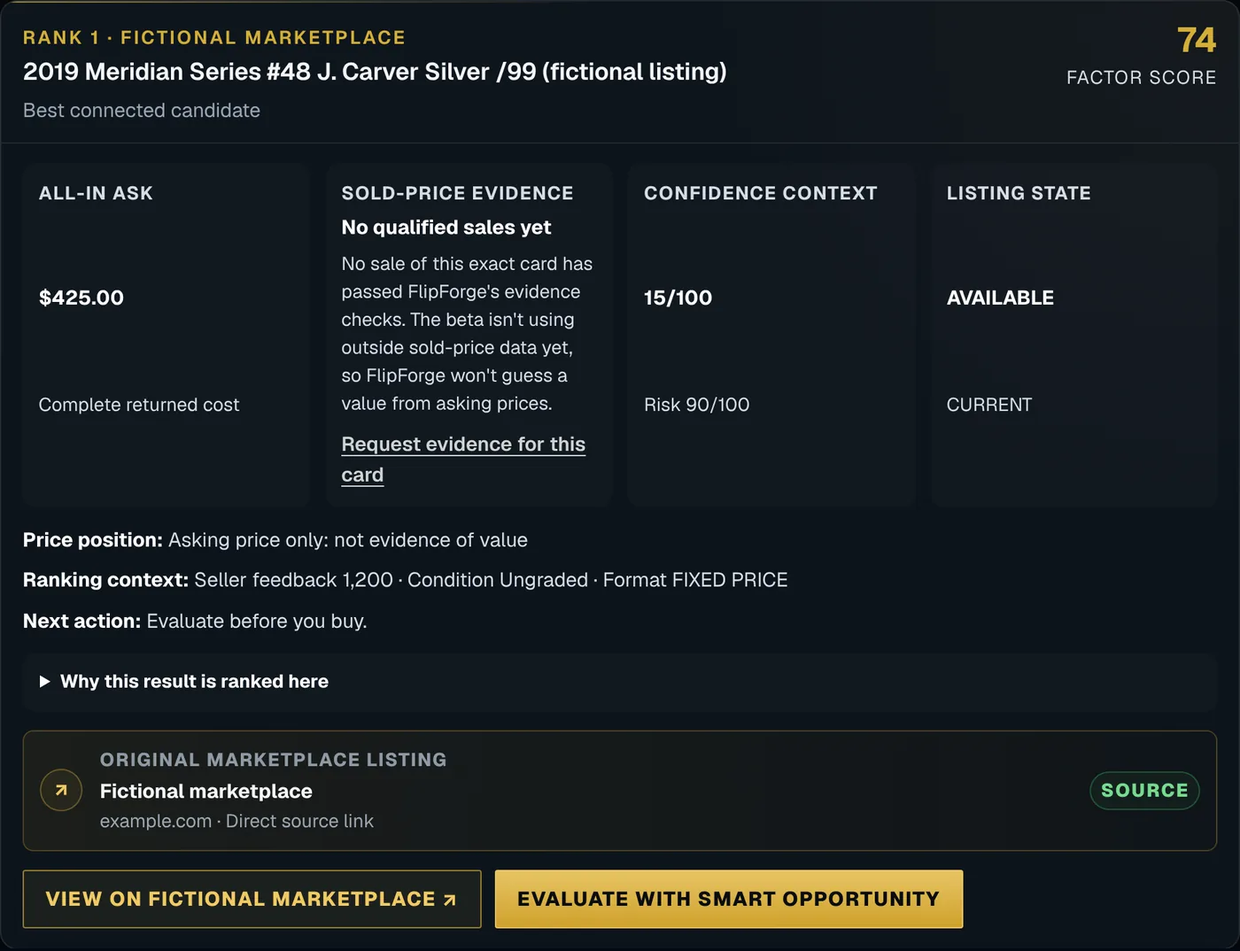
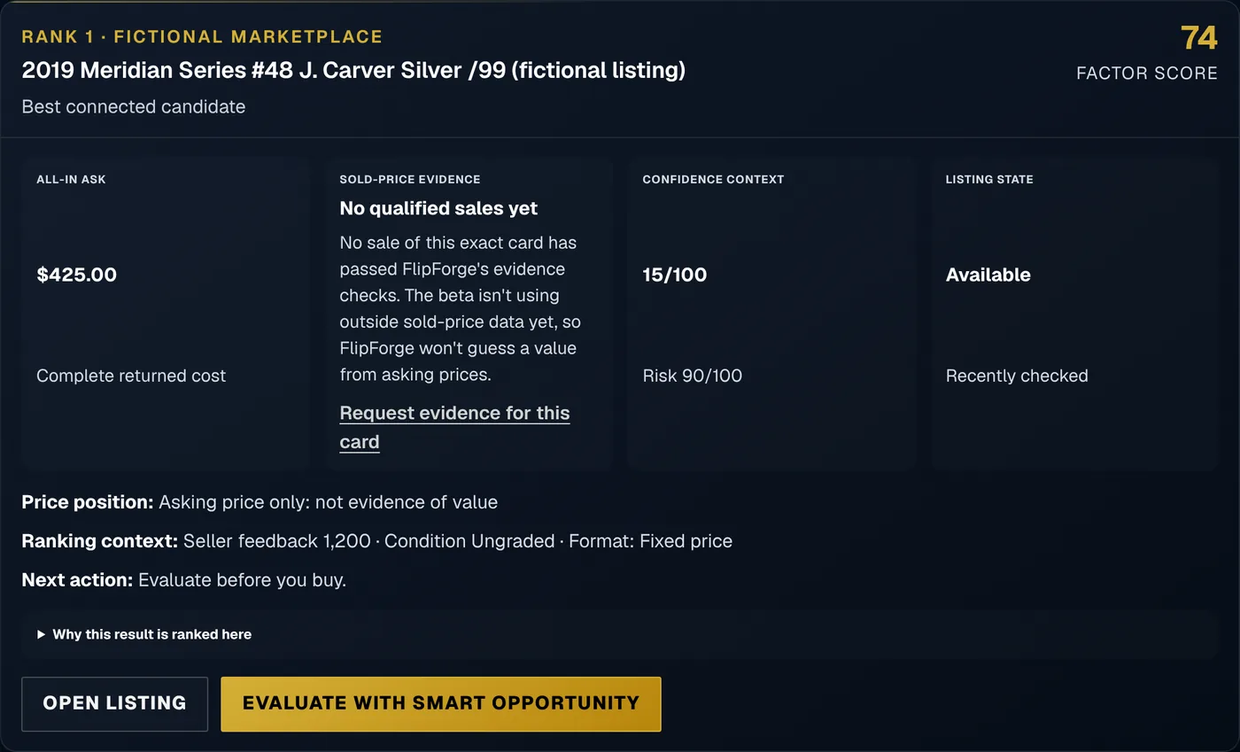
Website polish after the Oct 27 release: positioning, faster interaction, honest check markers, engagement counts
Founder-approved post-release polish (no redesign, decision logic unchanged):

- Positioning: the hero now opens with "Card Decision Intelligence™" and the benefit line "Find opportunities.
  Test the evidence. Avoid expensive mistakes." between "Price is not proof." and the unchanged slogan
  "Before you buy. Know Why." Hero art, panel and disclosures are untouched.
- Interaction sooner: the hero buttons go straight to the Decision Challenge and Inside FlipForge (both on the
  first screen at 390 / 768 / 1440); Request Beta Access stays in the hero note and the header.
- Credibility: the four checks show their real outcome (passed, needs review, not available, context). A green tick
  appears only for a passed check, with screen-reader text, and the summary says how many need review. The Decision
  Receipt no longer shows status codes such as "NO PRICE CHANGE"; Discover shows listing state and format in plain
  words. Inside-the-app screenshots recaptured from the corrected app (fictional card, providers off).
- Measurement: hero shortcut clicks and Challenge / Inside FlipForge reach are counted (allowlisted, counts only)
  and shown to the founder as "Homepage engagement" in the operator view.
- Release reliability: the timed weekday release is paused; releases are started by hand after founder approval.
  GitHub ran this repository's scheduled jobs 3-9 hours late and skipped the Oct 24 and Oct 27 release slots.
[…]

diff --git a/saas-prototype/customer-discovery.js b/saas-prototype/customer-discovery.js
@@ -83,6 +83,17 @@
     return error;
   }
 
+  // Customer words for listing codes returned by the server. Unknown codes fall back to sentence case, never raw codes.
+  const AVAILABILITY_WORDS = Object.freeze({ AVAILABLE: "Available", ENDED: "Listing ended", SOLD: "Sold", UNAVAILABLE: "Not available", UNKNOWN: "Not confirmed" });
+  const FRESHNESS_WORDS = Object.freeze({ CURRENT: "Recently checked", FRESH: "Recently checked", STALE: "May be out of date", UNKNOWN: "Not recently checked" });
+  const FORMAT_WORDS = Object.freeze({ FIXED_PRICE: "Fixed price", AUCTION: "Auction", BEST_OFFER: "Best offer", AUCTION_WITH_BUY_NOW: "Auction with buy-now price" });
+  function listingWords(map, value) {
+    const raw = String(value || "UNKNOWN").trim().toUpperCase().replace(/[\s-]+/g, "_");
+    if (Object.prototype.hasOwnProperty.call(map, raw)) return map[raw];
+    const words = raw.toLowerCase().split("_").filter(Boolean).join(" ");
+    return words ? words.charAt(0).toUpperCase() + words.slice(1) : map.UNKNOWN || "Not confirmed";
+  }
+
   function moneyFromCents(value) {
     return new Intl.NumberFormat("en-US", { style: "currency", currency: "USD", maximumFractionDigits: 2 })
       .format((Number(value) || 0) / 100);
@@ -856,7 +867,7 @@
         ? `Seller feedback ${new Intl.NumberFormat("en-US").format(sellerFeedback)}`
         : "",
       item.condition ? `Condition ${item.condition}` : "",
-      item.listingFormat ? `Format ${String(item.listingFormat).replaceAll("_", " ")}` : ""
+      item.listingFormat ? `Format: ${listingWords(FORMAT_WORDS, item.listingFormat)}` : ""
     ].filter(Boolean).join(" · ");
     const factors = item.rankingFactors && typeof item.rankingFactors === "object"
       ? Object.entries(item.rankingFactors)
@@ -894,7 +905,7 @@
     const boundary = identityReview
       ? `<div class="boundary-note"><strong>Not an exact candidate:</strong> ${escapeHtml(blockReason)} It is separated from the ranked exact matches and cannot be sent to Smart Opportunity.</div>`
       : `<div class="boundary-note"><strong>Discovery only:</strong> This active listing is not a sold comp and this score is not BUY/WATCH/VERIFY/PASS. Evaluation is a separate explicit request.</div>`;
-    return `<article class="panel customer-discovery-candidate${identityReview ? " customer-discovery-candidate-review" : ""}"><header class="panel-header"><div><span class="eyebrow">${eyebrow}</span><h2>${escapeHtml(item.title || item.cardIdentityQuery || "Active listing")}</h2><p>${escapeHtml(label)}</p></div><span class="customer-discovery-score"><strong>${escapeHtml(item.discoveryScore ?? 0)}</strong><small>Discovery score</small></span></header><div class="panel-body"><div class="customer-discovery-metrics"><div><span>All-in ask</span><strong>${moneyFromCents(item.allInAskCents)}</strong><small>${item.allInCostComplete ? "Complete returned cost" : "Cost review required"}</small></div>${soldContextMetric}<div><span>Confidence context</span><strong>${escapeHtml(evidence.calibratedConfidence ?? 0)}/100</strong><small>Risk ${escapeHtml(evidence.risk ?? 0)}/100</small></div><div><span>Listing state</span><strong>${escapeHtml(String(item.listingAvailability || "UNKNOWN").replaceAll("_", " "))}</strong><small>${escapeHtml(String(item.listingFreshness || "UNKNOWN").replaceAll("_", " "))}</small></div></div><div class="customer-discovery-copy"><p><strong>Price position:</strong> ${escapeHtml(pricePositionText)}</p>${rankingContext ? `<p><strong>Ranking context:</strong> ${escapeHtml(rankingContext)}</p>` : ""}<p><strong>Next action:</strong> ${escapeHtml(item.nextAction || "Verify the listing before evaluation.")}</p></div>${rankingDetails}<div class="customer-discovery-actions"><a class="button button-secondary" href="${escapeHtml(validHttpUrl(item.listingUrl) ? item.listingUrl : "#")}" target="_blank" rel="noopener noreferrer">Open listing</a><button class="button button-primary" type="button" data-discovery-evaluate="${index}" ${evaluateDisabled ? "disabled" : ""}>${state.evaluatingIndex === index ? "Evaluating…" : "Evaluate with Smart Opportunity"}</button></div>${state.evaluationError && state.evaluationError.index === index ? evaluationErrorMarkup(state.evaluationError.error) : state.evaluationLimitReached ? allowanceNoteMarkup() : ""}${boundary}</div></article>`;
+    return `<article class="panel customer-discovery-candidate${identityReview ? " customer-discovery-candidate-review" : ""}"><header class="panel-header"><div><span class="eyebrow">${eyebrow}</span><h2>${escapeHtml(item.title || item.cardIdentityQuery || "Active listing")}</h2><p>${escapeHtml(label)}</p></div><span class="customer-discovery-score"><strong>${escapeHtml(item.discoveryScore ?? 0)}</strong><small>Discovery score</small></span></header><div class="panel-body"><div class="customer-discovery-metrics"><div><span>All-in ask</span><strong>${moneyFromCents(item.allInAskCents)}</strong><small>${item.allInCostComplete ? "Complete returned cost" : "Cost review required"}</small></div>${soldContextMetric}<div><span>Confidence context</span><strong>${escapeHtml(evidence.calibratedConfidence ?? 0)}/100</strong><small>Risk ${escapeHtml(evidence.risk ?? 0)}/100</small></div><div><span>Listing state</span><strong>${escapeHtml(listingWords(AVAILABILITY_WORDS, item.listingAvailability))}</strong><small>${escapeHtml(listingWords(FRESHNESS_WORDS, item.listingFreshness))}</small></div></div><div class="customer-discovery-copy"><p><strong>Price position:</strong> ${escapeHtml(pricePositionText)}</p>${rankingContext ? `<p><strong>Ranking context:</strong> ${escapeHtml(rankingContext)}</p>` : ""}<p><strong>Next action:</strong> ${escapeHtml(item.nextAction || "Verify the listing before evaluation.")}</p></div>${rankingDetails}<div class="customer-discovery-actions"><a class="button button-secondary" href="${escapeHtml(validHttpUrl(item.listingUrl) ? item.listingUrl : "#")}" target="_blank" rel="noopener noreferrer">Open listing</a><button class="button button-primary" type="button" data-discovery-evaluate="${index}" ${evaluateDisabled ? "disabled" : ""}>${state.evaluatingIndex === index ? "Evaluating…" : "Evaluate with Smart Opportunity"}</button></div>${state.evaluationError && state.evaluationError.index === index ? evaluationErrorMarkup(state.evaluationError.error) : state.evaluationLimitReached ? allowanceNoteMarkup() : ""}${boundary}</div></article>`;
   }
 
   function resultsPanel() {

diff --git a/index.html b/index.html
@@ -30,6 +30,7 @@
 <link rel="stylesheet" href="assets/css/homepage-audiences-v1.css">
 <link rel="stylesheet" href="assets/css/homepage-challenge-v1.css">
 <link rel="stylesheet" href="assets/css/homepage-app-showcase-v1.css">
+<link rel="stylesheet" href="assets/css/homepage-hero-positioning-v1.css">
 <link rel="stylesheet" href="assets/css/updates-signup-v1.css">
 </head>
 <body class="ff10">
@@ -43,14 +44,16 @@
 <section class="ff10-hero" aria-labelledby="ff10-hero-title" data-ff10-hero>
   <div class="ff10-wrap ff10-hero-grid">
     <div class="ff10-hero-copy">
+      <p class="ff10-hero-category"><span>Card Decision Intelligence<sup>™</sup></span></p>
       <h1 id="ff10-hero-title" class="ff10-display ff10-hero-title"><span>Price is</span> <span>not proof.</span></h1>
+      <p class="ff10-hero-benefit"><span>Find opportunities.</span> <span>Test the evidence.</span> <span>Avoid expensive mistakes.</span></p>
       <p class="ff10-hero-brand"><span>Before</span> <span>you buy.</span> <span>Know Why.</span></p>
       <p class="ff10-lede">A price tells you what someone asked or paid. FlipForge shows what it actually proves, and what you should pay.</p>
       <div class="ff10-actions">
-        <a class="ff10-btn ff10-btn-gold" href="beta-application.html">Request Beta Access</a>
-        <a class="ff10-btn ff10-btn-line" href="#demo">Try the price demo</a>
+        <a class="ff10-btn ff10-btn-gold" href="#demo" data-ff-hero-jump="challenge">Try the Decision Challenge</a>
+        <a class="ff10-btn ff10-btn-line" href="#inside-the-app" data-ff-hero-jump="app">See Inside FlipForge</a>
       </div>
-      <p class="ff10-hero-note">Controlled Private Beta. Invited collectors only.</p>
+      <p class="ff10-hero-note">Controlled Private Beta. Invited collectors only. <a href="beta-application.html" data-ff-hero-apply>Request Beta Access</a></p>
       <div class="ff10-verdict-key"><p>Every card ends in one of four decisions, with the reason attached.</p><ul aria-label="FlipForge decisions"><li>BUY</li><li>WATCH</li><li>VERIFY</li><li>PASS</li></ul></div>
     </div>
 
@@ -510,8 +513,8 @@
         <figure class="ff10-app-shot">
           <div class="ff10-app-window" tabindex="0" role="region" aria-label="Discover screen. Scroll to see all of it.">
             <picture>
-              <source media="(max-width:760px)" srcset="assets/images/ff-app-discover-m.webp" width="692" height="2466">
-              <img src="assets/images/ff-app-discover.webp" width="1400" height="1074" loading="lazy" decoding="async"
+              <source media="(max-width:760px)" srcset="assets/images/ff-app-discover-m.webp" width="692" height="1934">
+              <img src="assets/images/ff-app-discover.webp" width="1400" height="849" loading="lazy" decoding="async"
                 alt="FlipForge Discover result for a fictional 2019 Meridian Series #48 J. Carver Silver /99 listing: all-in ask $425, no qualified sales yet, confidence 15 out of 100, risk 90 out of 100, and an Evaluate with Smart Opportunity button.">
             </picture>
           </div>
@@ -533,9 +536,9 @@
         <figure class="ff10-app-shot">
           <div class="ff10-app-window" tabindex="0" role="region" aria-label="Evaluate screen. Scroll to see all of it.">
             <picture>
-              <source media="(max-width:760px)" srcset="assets/images/ff-app-evaluate-m.webp" width="692" height="2898">
-              <img src="assets/images/ff-app-evaluate.webp" width="1400" height="1341" loading="lazy" decoding="async"
-                alt="FlipForge decision screen: Verify before acting. There is not enough matching evidence yet to make this purchase confidently. Four checks: exact card, matched sales, price check with supported value unavailable, and uncertainty at 15 out of 100 confidence and 90 out of 100 risk.">
+              <source media="(max-width:760px)" srcset="assets/images/ff-app-evaluate-m.webp" width="692" height="2489">
+              <img src="assets/images/ff-app-evaluate.webp" width="1400" height="1224" loading="lazy" decoding="async"
+                alt="FlipForge decision screen: Verify before acting. There is not enough matching evidence yet to make this purchase confidently. Four checks: exact card, matched sales, price check with supported value unavailable, and uncertainty at 15 out of 100 confidence and 90 out of 100 risk. Three checks are marked as needing review; uncertainty is shown for context.">
             </picture>
           </div>
           <figcaption>Evaluate · decision from the real engine</figcaption>
@@ -555,7 +558,7 @@
         </div>
         <figure class="ff10-app-shot ff10-app-shot-receipt">
           <div class="ff10-app-window" tabindex="0" role="region" aria-label="Decision Receipt. Scroll to read all of it.">
-            <img src="assets/images/ff-app-receipt.webp" width="620" height="4494" loading="lazy" decoding="async"
+            <img src="assets/images/ff-app-receipt.webp" width="620" height="3365" loading="lazy" decoding="async"
               alt="FlipForge Decision Receipt for the fictional card: decision VERIFY; identity review required; 0 sales at decision; $425 ask with supported value withheld; 90 out of 100 risk and 15 out of 100 confidence; traceback to the Smart Opportunity engine version.">
           </div>
           <figcaption>Decision Receipt · scroll to read</figcaption>
@@ -605,6 +608,7 @@
 <script src="assets/js/homepage-audiences-v1.js" defer></script>
 <script src="assets/js/homepage-challenge-v1.js" defer></script>
 <script src="assets/js/homepage-app-showcase-v1.js" defer></script>
+<script src="assets/js/homepage-engagement-v1.js" defer></script>
 <script src="assets/js/updates-signup.js" defer></script>
 <script src="assets/js/section-navigation.js" defer></script>
 </body>

diff --git a/saas-prototype/customer-cdi-signal-stack-v1.js b/saas-prototype/customer-cdi-signal-stack-v1.js
@@ -264,12 +264,36 @@
     return uncertaintyVisual(signal);
   }
 
+  // What each check's marker says. Display only: it reads the values already shown on the row and never changes the
+  // decision. A green tick appears only when the check actually succeeded; an unresolved or missing check never gets one.
+  const OUTCOMES = Object.freeze({
+    passed: { mark: "\u2713", label: "Check passed" },
+    review: { mark: "!", label: "Needs review" },
+    missing: { mark: "\u2013", label: "Not available yet" },
+    context: { mark: "i", label: "Shown for context, not a pass or fail" }
+  });
+
+  function signalOutcome(signal) {
+    if (signal.key === "exact") return signal.verified ? "passed" : "review";
+    if (signal.key === "sales") {
+      if (!Number.isFinite(signal.accepted)) return "missing";
+      return signal.accepted > 0 ? "passed" : "review";
+    }
+    if (signal.key === "price") {
+      const supported = Number(signal.supported);
+      return Number.isFinite(supported) && supported > 0 ? "passed" : "review";
+    }
+    return Number.isFinite(signal.confidence) && Number.isFinite(signal.risk) ? "context" : "missing";
+  }
+
   function signalMarkup(signal, index) {
-    return '<article class="ff-cdi-signal" data-ff-cdi-signal="' + escapeHtml(signal.key) + '" data-step="' + String(index + 1) + '">' +
+    const outcome = signalOutcome(signal);
+    return '<article class="ff-cdi-signal" data-ff-cdi-signal="' + escapeHtml(signal.key) + '" data-outcome="' + outcome + '" data-step="' + String(index + 1) + '">' +
       '<div class="ff-cdi-signal-index">0' + String(index + 1) + '</div>' +
       signalVisual(signal) +
       '<div class="ff-cdi-signal-copy"><span>' + escapeHtml(signal.label) + '</span><strong>' + escapeHtml(signal.value) + '</strong><small>' + escapeHtml(signal.caption) + '</small></div>' +
-      '<span class="ff-cdi-signal-state" aria-hidden="true">✓</span>' +
+      '<span class="ff-cdi-signal-state" data-outcome="' + outcome + '" title="' + OUTCOMES[outcome].label + '">' +
+        '<span aria-hidden="true">' + OUTCOMES[outcome].mark + '</span><span class="ff-cdi-sr">' + OUTCOMES[outcome].label + '</span></span>' +
       '</article>';
   }
 
@@ -372,7 +396,12 @@
 
     const finish = () => {
       rows.forEach(row => row.classList.add("is-complete"));
-      if (caption) caption.textContent = "Four checks complete. Open the evidence or Decision Receipt for the deeper trail.";
+      if (caption) {
+        const open = rows.filter(row => row.dataset.outcome === "review" || row.dataset.outcome === "missing").length;
+        caption.textContent = open
+          ? "Four checks complete. " + (open === 1 ? "1 needs" : open + " need") + " review before you rely on this decision. Open the evidence or Decision Receipt for the deeper trail."
+          : "Four checks complete. Open the evidence or Decision Receipt for the deeper trail.";
+      }
       if (after) after.hidden = false;
       state.running.delete(stack);
     };

diff --git a/assets/css/homepage-hero-positioning-v1.css b/assets/css/homepage-hero-positioning-v1.css
@@ -1,0 +1,42 @@
+/* FlipForge homepage hero positioning (v1). Adds the category name above "Price is not proof." and the benefit line,
+ * inside the existing v10 hero. The hero layout, art, panel, palette and "Before you buy. Know Why." are unchanged:
+ * this file only adds two rows to the existing grid and styles the new lines with the v10 tokens. */
+
+/* Desktop grid: category, title, benefit, brand line, lede, actions, note, then the decision key (fills the rest). */
+.ff10-hero-grid{grid-template-rows:auto auto auto auto auto auto auto 1fr}
+.ff10-hero-category{grid-column:1;grid-row:1}
+.ff10-hero-title{grid-row:2}
+.ff10-hero-benefit{grid-column:1;grid-row:3}
+.ff10-hero-brand{grid-row:4}
+.ff10-hero .ff10-lede{grid-row:5}
+.ff10-hero .ff10-actions{grid-row:6}
+.ff10-hero-note{grid-row:7}
+.ff10-verdict-key{grid-row:8;margin-top:32px}
+
+/* The category: the name of what FlipForge is, set as the hero's opening line. */
+.ff10 .ff10-hero-category{display:flex;align-items:center;gap:14px;margin:0 0 clamp(16px,1.6vw,24px)!important;
+  font-size:clamp(14px,1.25vw,18px);font-weight:800;letter-spacing:.24em;text-transform:uppercase;line-height:1.2;color:var(--g)}
+.ff10-hero-category::before{content:"";flex:none;width:clamp(28px,3vw,44px);height:2px;background:var(--g)}
+.ff10-hero-category sup{font-size:.62em;letter-spacing:0;margin-left:.08em;vertical-align:.55em}
+
+/* The benefit: what the category does for a buyer, directly under the headline. */
+.ff10 .ff10-hero-benefit{margin-top:clamp(18px,1.8vw,26px)!important;max-width:34em;
+  font-size:clamp(19px,1.6vw,25px);font-weight:600;letter-spacing:-.015em;line-height:1.3;color:rgba(255,255,255,.9)}
+.ff10-hero-benefit span{white-space:nowrap}
+.ff10 .ff10-hero-brand{margin-top:clamp(14px,1.4vw,20px)!important}
+
+/* Beta access stays one tap away from the hero, as a clear link beside the beta note. */
+.ff10-hero-note a{margin-left:6px;color:var(--g);font-weight:700;text-decoration:underline;text-underline-offset:3px;white-space:nowrap}
+.ff10-hero-note a::after{content:" \2192"}
+.ff10-hero-note a:hover{color:var(--w)}
+
+@media(min-width:761px) and (max-width:1100px){
+  .ff10-hero-benefit{max-width:30em}
+}
+@media(max-width:760px){
+  .ff10 .ff10-hero-category{gap:10px;font-size:13px;letter-spacing:.2em;margin-bottom:14px!important}
+  .ff10 .ff10-hero-benefit{font-size:clamp(18px,5vw,21px);margin-top:16px!important}
+  .ff10-hero-benefit span{white-space:normal}
+  .ff10 .ff10-hero-brand{margin-top:12px!important}
+  .ff10-hero-note a{display:inline-block;margin:6px 0 0}
+}

diff --git a/assets/js/beta-operator.js b/assets/js/beta-operator.js
@@ -43,7 +43,17 @@
     ["Applications",c.applicationsSubmitted,pct(c.applicationsSubmitted,c.betaFormStarted)],
     ["Guide viewed",c.onboardingGuideViewed,pct(c.onboardingGuideViewed,c.applicationsSubmitted)],
     ["Workspace intent",c.workspaceClicked,pct(c.workspaceClicked,c.onboardingGuideViewed)]
-  ];document.querySelector("[data-funnel-grid]").innerHTML=steps.map(([name,count,note])=>`<article class="ff-funnel-step"><span>${esc(name)}</span><strong>${esc(count||0)}</strong><small>${esc(note)}</small></article>`).join("")}
+  ];document.querySelector("[data-funnel-grid]").innerHTML=steps.map(([name,count,note])=>`<article class="ff-funnel-step"><span>${esc(name)}</span><strong>${esc(count||0)}</strong><small>${esc(note)}</small></article>`).join("");
+    const h=state.funnel?.homepage||{};const home=[
+    ["Challenge reached",h.challengeReached,"Decision Challenge on screen"],
+    ["Challenge tried",h.challengeTried,pct(h.challengeTried,h.challengeReached)],
+    ["Challenge finished",h.challengeFinished,pct(h.challengeFinished,h.challengeTried)],
+    ["Inside FlipForge reached",h.insideAppReached,"App screens on screen"],
+    ["App screens opened",h.appScreensOpened,"Tab views, not visitors"],
+    ["Hero shortcuts used",h.heroShortcutsUsed,"Challenge or app link at the top"],
+    ["Audience chosen",h.audienceSelected,"Audience selector choices"],
+    ["Beta access clicked",h.betaCtaClicked,"Every Request Beta Access link"]
+  ];const homeGrid=document.querySelector("[data-homepage-funnel-grid]");if(homeGrid)homeGrid.innerHTML=home.map(([name,count,note])=>`<article class="ff-funnel-step"><span>${esc(name)}</span><strong>${esc(count||0)}</strong><small>${esc(note)}</small></article>`).join("")}
   function filtered(){const query=state.search.toLowerCase();return state.applications.filter(item=>{const activeMatch=state.view==="ALL"||(state.view==="REMOVED"?item.status==="REMOVED":item.status!=="REMOVED");const statusMatch=state.filter==="ALL"||item.status===state.filter;const haystack=`${item.applicant?.fullName||""} ${item.applicant?.email||""} ${item.cohort||""} ${item.applicant?.testingFocus||""}`.toLowerCase();return activeMatch&&statusMatch&&(!query||haystack.includes(query))})}
   function syncDirectorySelection(){const items=filtered();if(!state.selectedId||!items.some(item=>item.id===state.selectedId))state.selectedId=items[0]?.id||""}
   // Plain-language access for each tester, shown as a clear badge in the directory (founder feedback 2026-10-21).

diff --git a/assets/js/homepage-engagement-v1.js b/assets/js/homepage-engagement-v1.js
@@ -1,0 +1,29 @@
+/* FlipForge homepage engagement counts (v1). Counts, never people: how often the hero links to the Decision Challenge
+ * and Inside FlipForge are used, and how often each of those sections is actually reached on screen.
+ * Sent through the existing allowlisted ff:conversion channel (event, page, placement only). No storage, no identifiers. */
+(() => {
+  'use strict';
+  const track = (event, placement) => document.dispatchEvent(new CustomEvent('ff:conversion', {detail: {event, placement}}));
+
+  document.querySelectorAll('[data-ff-hero-jump]').forEach(link => {
+    link.addEventListener('click', () => track('hero_jump_clicked', `hero-${link.dataset.ffHeroJump}`));
+  });
+
+  // A section counts as reached once per page view, when at least 35% of it has been on screen.
+  const sections = [['[data-ff-challenge]', 'challenge'], ['#inside-the-app', 'inside-app']]
+    .map(([selector, placement]) => [document.querySelector(selector), placement])
+    .filter(([element]) => element);
+  if (!sections.length || !('IntersectionObserver' in window)) return;
+  const seen = new Set();
+  const observer = new IntersectionObserver(entries => {
+    entries.forEach(entry => {
+      if (!entry.isIntersecting) return;
+      const placement = entry.target.dataset.ffEngagement;
+      if (seen.has(placement)) return;
+      seen.add(placement);
+      observer.unobserve(entry.target);
+      track('section_viewed', placement);
+    });
+  }, {threshold: 0.35});
+  sections.forEach(([element, placement]) => { element.dataset.ffEngagement = placement; observer.observe(element); });
+})();

diff --git a/assets/js/conversion-events.js b/assets/js/conversion-events.js
@@ -163,8 +163,8 @@
   };
 
   // Homepage experiences report counts only (which audience, which call, whether finished): no personal data.
-  const experienceEvents=new Set(["audience_selected","challenge_answered","challenge_completed","demo_interacted","app_screen_viewed","beta_cta_clicked"]);
-  const experiencePlacement=/^(audience-(flipper|investor|collector|dealer|grading)|challenge(-(buy|investigate|pass))?|demo|app-(discover|evaluate|receipt))$/;
+  const experienceEvents=new Set(["audience_selected","challenge_answered","challenge_completed","demo_interacted","app_screen_viewed","hero_jump_clicked","section_viewed","beta_cta_clicked"]);
+  const experiencePlacement=/^(audience-(flipper|investor|collector|dealer|grading)|challenge(-(buy|investigate|pass))?|demo|app-(discover|evaluate|receipt)|hero-(challenge|app)|inside-app)$/;
   document.addEventListener("ff:conversion",event=>{
     const detail=event.detail||{};
     if(!experienceEvents.has(detail.event)||!experiencePlacement.test(String(detail.placement||"")))return;
@@ -176,7 +176,7 @@
     if(link.closest(".footer"))return"footer";
     if(link.closest(".ff-dossier-spotlight"))return"sample-spotlight";
     if(link.closest(".ff-evidence"))return"evidence";
-    if(link.closest(".page-hero,.hero,.ffh,.decision-hero,.ff-dic-hero"))return"hero";
+    if(link.closest(".page-hero,.hero,.ffh,.ff10-hero,.decision-hero,.ff-dic-hero"))return"hero";
     return"page";
   };
 

diff --git a/assets/css/beta-operator-v1.css b/assets/css/beta-operator-v1.css
@@ -194,3 +194,4 @@
 .ff-access-status{display:block;margin-top:5px;color:var(--op-muted);font-size:11px;letter-spacing:.03em}
 
 .ff-card-reference{border:1px solid rgba(212,175,55,.45);border-radius:10px;background:rgba(212,175,55,.05);padding:14px;margin:0 0 14px}.ff-card-reference h4{margin:0 0 6px;color:var(--op-gold);font-size:11px;text-transform:uppercase;letter-spacing:.12em}.ff-card-identity{margin:0 0 12px;font-size:16px;font-weight:800;line-height:1.4;overflow-wrap:anywhere}.ff-card-reference .ff-detail-grid{margin-bottom:0}.ff-card-reference .ff-feedback-boundary{margin-bottom:0}.ff-card-missing{color:var(--op-muted);font-style:normal;font-weight:600}
+.ff-funnel-subhead{margin:0;padding:16px 22px 0;border-top:1px solid var(--op-line);color:var(--op-gold);font-size:11px;font-weight:800;letter-spacing:.2em;text-transform:uppercase}[data-homepage-funnel-grid]{grid-template-columns:repeat(4,1fr);row-gap:18px}[data-homepage-funnel-grid] .ff-funnel-step:nth-child(4n){border-right:0}@media(max-width:700px){[data-homepage-funnel-grid]{grid-template-columns:repeat(2,1fr)}}

diff --git a/saas-prototype/customer-cdi-signal-stack-v1.css b/saas-prototype/customer-cdi-signal-stack-v1.css
@@ -226,6 +226,12 @@
   opacity:1;
   transform:scale(1);
 }
+/* The marker states the check's real outcome: only a passed check is green. */
+.ff-cdi-signal-state[data-outcome="review"]{background:rgba(241,185,76,.14);color:#f1b94c;box-shadow:inset 0 0 0 1px rgba(241,185,76,.5)}
+.ff-cdi-signal-state[data-outcome="missing"]{background:rgba(255,255,255,.06);color:rgba(255,255,255,.62);box-shadow:inset 0 0 0 1px rgba(255,255,255,.22)}
+.ff-cdi-signal-state[data-outcome="context"]{background:rgba(255,255,255,.06);color:rgba(255,255,255,.78);box-shadow:inset 0 0 0 1px rgba(255,255,255,.28);font-style:italic;font-family:Georgia,serif}
+.ff-cdi-sr{position:absolute;width:1px;height:1px;overflow:hidden;clip:rect(0 0 0 0);white-space:nowrap}
+.ff-cdi-signal-state{position:relative}
 .ff-cdi-visual{
   position:relative;
   display:grid;

diff --git a/saas-prototype/decision-intelligence-ux-v2.js b/saas-prototype/decision-intelligence-ux-v2.js
@@ -181,7 +181,9 @@
     const decision = String(detail?.recommendation || "UNKNOWN").toUpperCase();
     const accepted = Math.max(0, safeNumber(evidence?.acceptedExactCompletedSales));
     const changeSummary = String(detail?.changeSummary || "").trim();
-    if (changeSummary) return changeSummary;
+    // changeSummary is sometimes a status code (e.g. "NO PRICE CHANGE", "NO_PRICE_CHANGE") describing what changed since the
+    // last evaluation. A code is never shown to customers here: the plain guidance for the saved decision is used instead.
+    if (changeSummary && !/^[A-Z0-9]+(?:[ _][A-Z0-9]+)*$/.test(changeSummary)) return changeSummary;
     if (decision === "VERIFY" && accepted === 0) {
       return "A completed sale for the exact card, grade and parallel that passes current FlipForge evidence checks.";
     }

diff --git a/operator-beta.html b/operator-beta.html
@@ -46,6 +46,8 @@
     <section class="ff-operator-panel" aria-labelledby="funnel-heading">
       <header><div><span class="ff-operator-kicker">Last 30 days</span><h2 id="funnel-heading">Acquisition funnel</h2></div><p>Directional interactions—not unique visitors or accuracy claims.</p></header>
       <div class="ff-funnel-grid" data-funnel-grid></div>
+      <h3 class="ff-funnel-subhead">Homepage engagement</h3>
+      <div class="ff-funnel-grid" data-homepage-funnel-grid></div>
     </section>
 
     <section class="ff-operator-panel ff-application-panel" aria-labelledby="applications-heading">

diff --git a/docs/WEBSITE_RELEASE_BATCHING.md b/docs/WEBSITE_RELEASE_BATCHING.md
@@ -21,7 +21,7 @@ The plan includes 1,000 credits a month, and the previous period used 4,255. Of 
 
 - **Netlify builds production from a `release` branch** instead of `main`. Merges to `main` no longer start a paid build. Pull requests still get free deploy previews.
 - **The Release Website workflow** (`.github/workflows/release-website.yml`) moves `release` forward to the latest tested `main`:
-  - automatically on weekdays at 22:17 UTC (6:17 PM EDT), only if `main` has changed;
+  - ~~automatically on weekdays at 22:17 UTC (6:17 PM EDT), only if `main` has changed~~ — **paused 2026-10-27: manual releases only, after explicit founder approval.** GitHub started this repository's scheduled jobs 3–9 hours late (Release Website ran at 01:28 UTC for the Oct 26 22:17 slot; the daily 06:17 UTC chaos audit runs 10:38–14:06 UTC) and skipped the Oct 24 and Oct 27 release slots entirely;
   - on demand, when someone runs the workflow (kind `manual` or `emergency`, with a required reason).
 - **Safety rules, enforced by `scripts/ci/release-website.mjs`:**
   - only commits already on `main` can be released;
